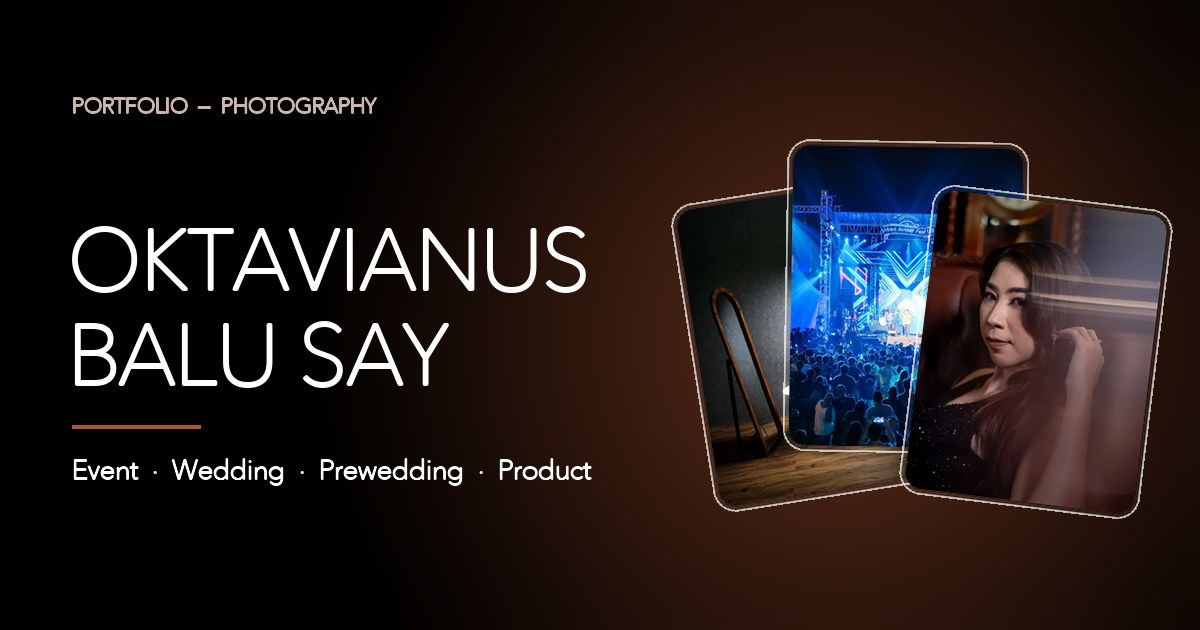
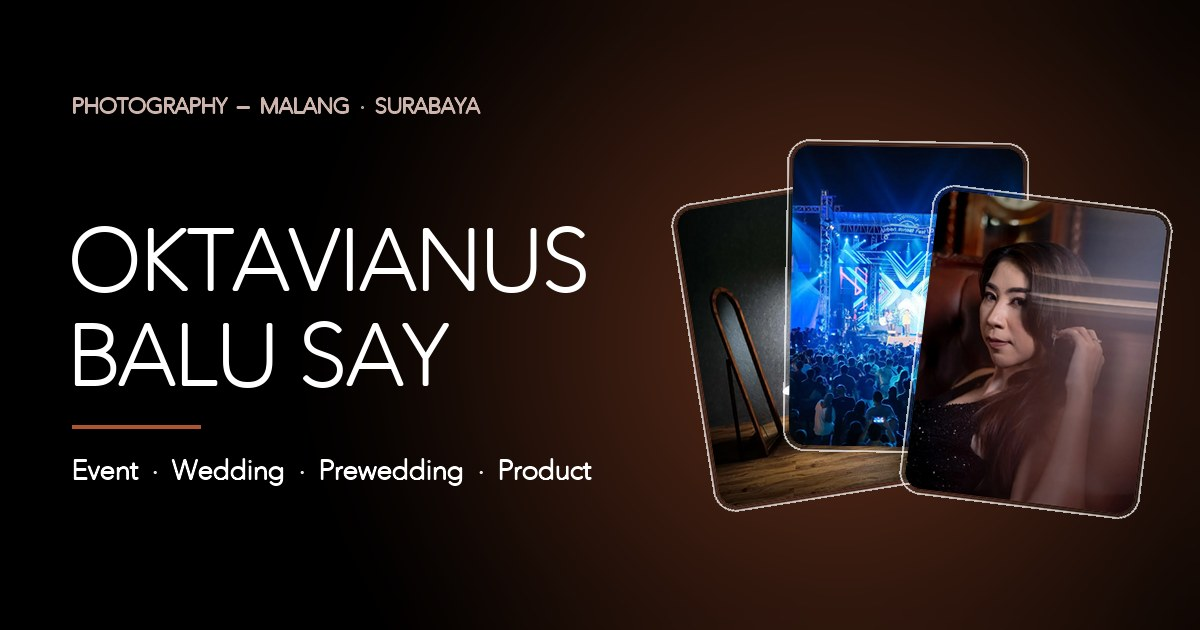
Local SEO: based in Malang, serving Malang, Surabaya and surrounding areas
- title, meta/OG/Twitter descriptions, hero eyebrow, CTA and footer text mention the location
- JSON-LD: ProfessionalService (PostalAddress locality only, areaServed Malang/Surabaya/East Java) and Person.workLocation
- llms.txt, manifest description and share image updated

Changed region(s): [[0.0617, 0.1508, 0.4008, 0.181]]

diff --git a/index.html b/index.html
@@ -3,8 +3,8 @@
 <head>
   <meta charset="utf-8">
   <meta name="viewport" content="width=device-width, initial-scale=1">
-  <title>Oktavianus Balu Say | Event, Wedding &amp; Product Photographer</title>
-  <meta name="description" content="Photography portfolio of Oktavianus Balu Say: event, wedding, prewedding and brand &amp; product photography. Browse selected work and see how a shoot comes together.">
+  <title>Photographer Malang &amp; Surabaya | Oktavianus Balu Say</title>
+  <meta name="description" content="Malang-based photographer serving Malang, Surabaya and nearby: event, wedding, prewedding and brand &amp; product photography. Book a session.">
   <link rel="canonical" href="https://abdizakiy.github.io/ovis-say/">
   <meta name="robots" content="index, follow, max-image-preview:large">
   <meta name="author" content="Oktavianus Balu Say">
@@ -14,8 +14,8 @@
   <!-- Social previews -->
   <meta property="og:type" content="website">
   <meta property="og:site_name" content="Oktavianus Balu Say">
-  <meta property="og:title" content="Oktavianus Balu Say | Event, Wedding &amp; Product Photographer">
-  <meta property="og:description" content="Selected work in event, wedding, prewedding and brand &amp; product photography.">
+  <meta property="og:title" content="Photographer Malang &amp; Surabaya | Oktavianus Balu Say">
+  <meta property="og:description" content="Malang-based photographer: event, wedding, prewedding and brand &amp; product photography in Malang, Surabaya and surrounding areas.">
   <meta property="og:url" content="https://abdizakiy.github.io/ovis-say/">
   <meta property="og:image" content="https://abdizakiy.github.io/ovis-say/assets/og-image.jpg">
   <meta property="og:image:width" content="1200">
@@ -23,8 +23,8 @@
   <meta property="og:image:alt" content="Oktavianus Balu Say photography portfolio: three framed photographs on a dark background">
   <meta property="og:locale" content="en_US">
   <meta name="twitter:card" content="summary_large_image">
-  <meta name="twitter:title" content="Oktavianus Balu Say | Event, Wedding &amp; Product Photographer">
-  <meta name="twitter:description" content="Selected work in event, wedding, prewedding and brand &amp; product photography.">
+  <meta name="twitter:title" content="Photographer Malang &amp; Surabaya | Oktavianus Balu Say">
+  <meta name="twitter:description" content="Malang-based photographer: event, wedding, prewedding and brand &amp; product photography in Malang, Surabaya and surrounding areas.">
   <meta name="twitter:image" content="https://abdizakiy.github.io/ovis-say/assets/og-image.jpg">
   <meta name="twitter:image:alt" content="Oktavianus Balu Say photography portfolio: three framed photographs on a dark background">
 
@@ -80,7 +80,7 @@
       "jobTitle": "Photographer",
       "url": "https://abdizakiy.github.io/ovis-say/",
       "image": "https://abdizakiy.github.io/ovis-say/assets/og-image.jpg",
-      "description": "Photographer working in event, wedding, prewedding, brand and product, and portrait photography.",
+      "description": "Photographer based in Malang, serving Malang, Surabaya and surrounding areas, working in event, wedding, prewedding, brand and product, and portrait photography.",
       "knowsAbout": [
         "Event photography",
         "Wedding photography",
@@ -89,18 +89,66 @@
         "Portrait photography"
       ],
       "telephone": "+6281217992433",
+      "workLocation": {
+        "@type": "Place",
+        "name": "Malang, East Java, Indonesia",
+        "address": {
+          "@type": "PostalAddress",
+          "addressLocality": "Malang",
+          "addressRegion": "East Java",
+          "addressCountry": "ID"
+        }
+      }
+    },
+    {
+      "@type": "ProfessionalService",
+      "@id": "https://abdizakiy.github.io/ovis-say/#business",
+      "name": "Oktavianus Balu Say — Photography",
+      "url": "https://abdizakiy.github.io/ovis-say/",
+      "image": "https://abdizakiy.github.io/ovis-say/assets/og-image.jpg",
+      "telephone": "+6281217992433",
+      "description": "Photography services based in Malang and serving Malang, Surabaya and surrounding areas: event, wedding, prewedding and brand & product photography.",
+      "areaServed": [
+        {
+          "@type": "City",
+          "name": "Malang"
+        },
+        {
+          "@type": "City",
+          "name": "Surabaya"
+        },
+        {
+          "@type": "AdministrativeArea",
+          "name": "East Java"
+        }
+      ],
+      "founder": {
+        "@id": "https://abdizakiy.github.io/ovis-say/#person"
+      },
+      "knowsAbout": [
+        "Event photography",
+        "Wedding photography",
+        "Prewedding photography",
+        "Brand and product photography"
+      ],
       "contactPoint": {
         "@type": "ContactPoint",
         "telephone": "+6281217992433",
-        "contactType": "customer service",
-        "url": "https://wa.me/6281217992433?text=Hi%20Oktavianus%2C%20I%27d%20like%20to%20book%20a%20session."
+        "contactType": "booking",
+        "url": "https://wa.me/6281217992433"
+      },
+      "address": {
+        "@type": "PostalAddress",
+        "addressLocality": "Malang",
+        "addressRegion": "East Java",
+        "addressCountry": "ID"
       }
     },
     {
       "@type": "WebPage",
       "@id": "https://abdizakiy.github.io/ovis-say/#webpage",
       "url": "https://abdizakiy.github.io/ovis-say/",
-      "name": "Oktavianus Balu Say | Event, Wedding & Product Photographer",
+      "name": "Photographer Malang & Surabaya | Oktavianus Balu Say",
       "isPartOf": {
         "@id": "https://abdizakiy.github.io/ovis-say/#website"
       },
@@ -113,7 +161,8 @@
         "url": "https://abdizakiy.github.io/ovis-say/assets/og-image.jpg",
         "width": 1200,
         "height": 630
-      }
+      },
+      "description": "Malang-based photographer serving Malang, Surabaya and surrounding areas: event, wedding, prewedding and brand & product photography."
     },
     {
       "@type": "ImageGallery",
@@ -514,7 +563,7 @@
     <section class="hero">
       <div class="hero__glow" aria-hidden="true"></div>
 
-      <p class="caption hero__eyebrow" data-hero-fade>Portfolio — Photography</p>
+      <p class="caption hero__eyebrow" data-hero-fade>Photography — Malang &amp; Surabaya</p>
 
       <div class="hero__stack">
         <figure class="frame" style="--x:-34%; --r:-9deg">
@@ -721,6 +770,7 @@
       <p class="caption" data-reveal>Contact</p>
       <h2 class="display cta__title" id="cta-title" data-reveal>Let’s create<br>something solid.</h2>
       <p class="cta__text" data-lines>Tell me about your event, brand or day. We’ll plan the rest together.</p>
+      <p class="caption cta__area" data-reveal>Based in Malang · Serving Malang, Surabaya &amp; surrounding areas</p>
       <div class="cta__action" data-reveal>
         <a class="btn btn--solid btn--lg" href="https://wa.me/6281217992433?text=Hi%20Oktavianus%2C%20I%27d%20like%20to%20book%20a%20session." target="_blank" rel="noopener">Book a session</a>
       </div>
@@ -734,7 +784,7 @@
     </div>
 
     <div class="footer__grid">
-      <p class="footer__about">Photography for events, brands, couples and the quiet moments in between.</p>
+      <p class="footer__about">Photography for events, brands, couples and the quiet moments in between. Based in Malang, serving Malang, Surabaya and surrounding areas.</p>
 
       <nav class="footer__col" aria-labelledby="f-explore">
         <h2 class="footer__h caption" id="f-explore">Explore</h2>

diff --git a/css/styles.css b/css/styles.css
@@ -578,6 +578,7 @@ a { color: inherit; text-decoration: none; }
 }
 .cta__title { font-size: clamp(2.5rem, 8vw, 7rem); }
 .cta__text { max-width: 42ch; color: var(--text-secondary); }
+.cta__area { color: var(--text-secondary); }
 .cta .btn { margin-top: var(--s-4); }
 
 /* ---------- Footer ---------- */
